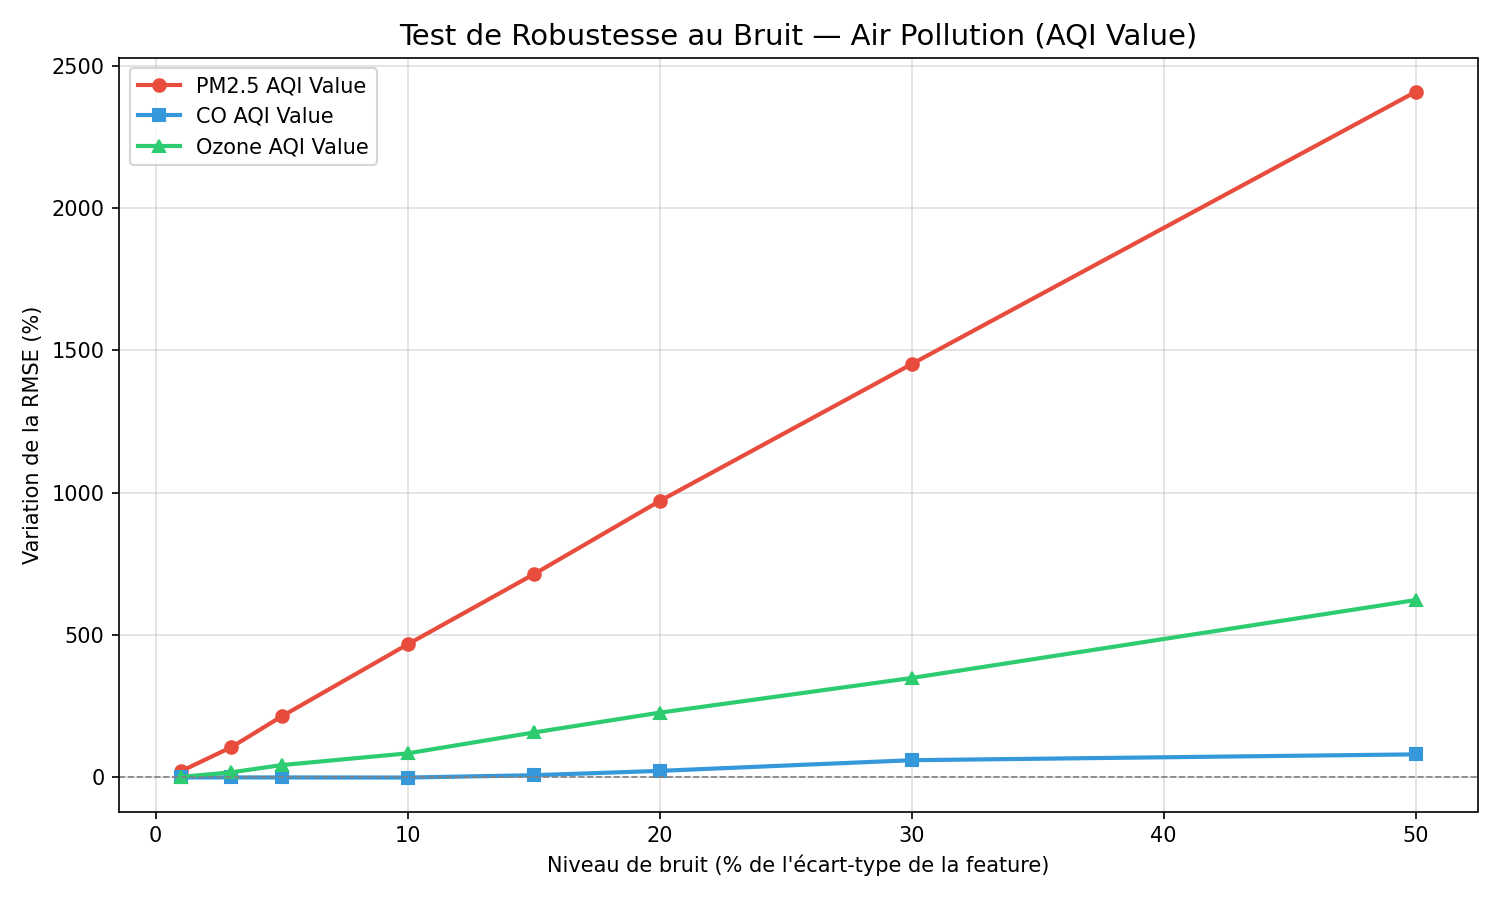
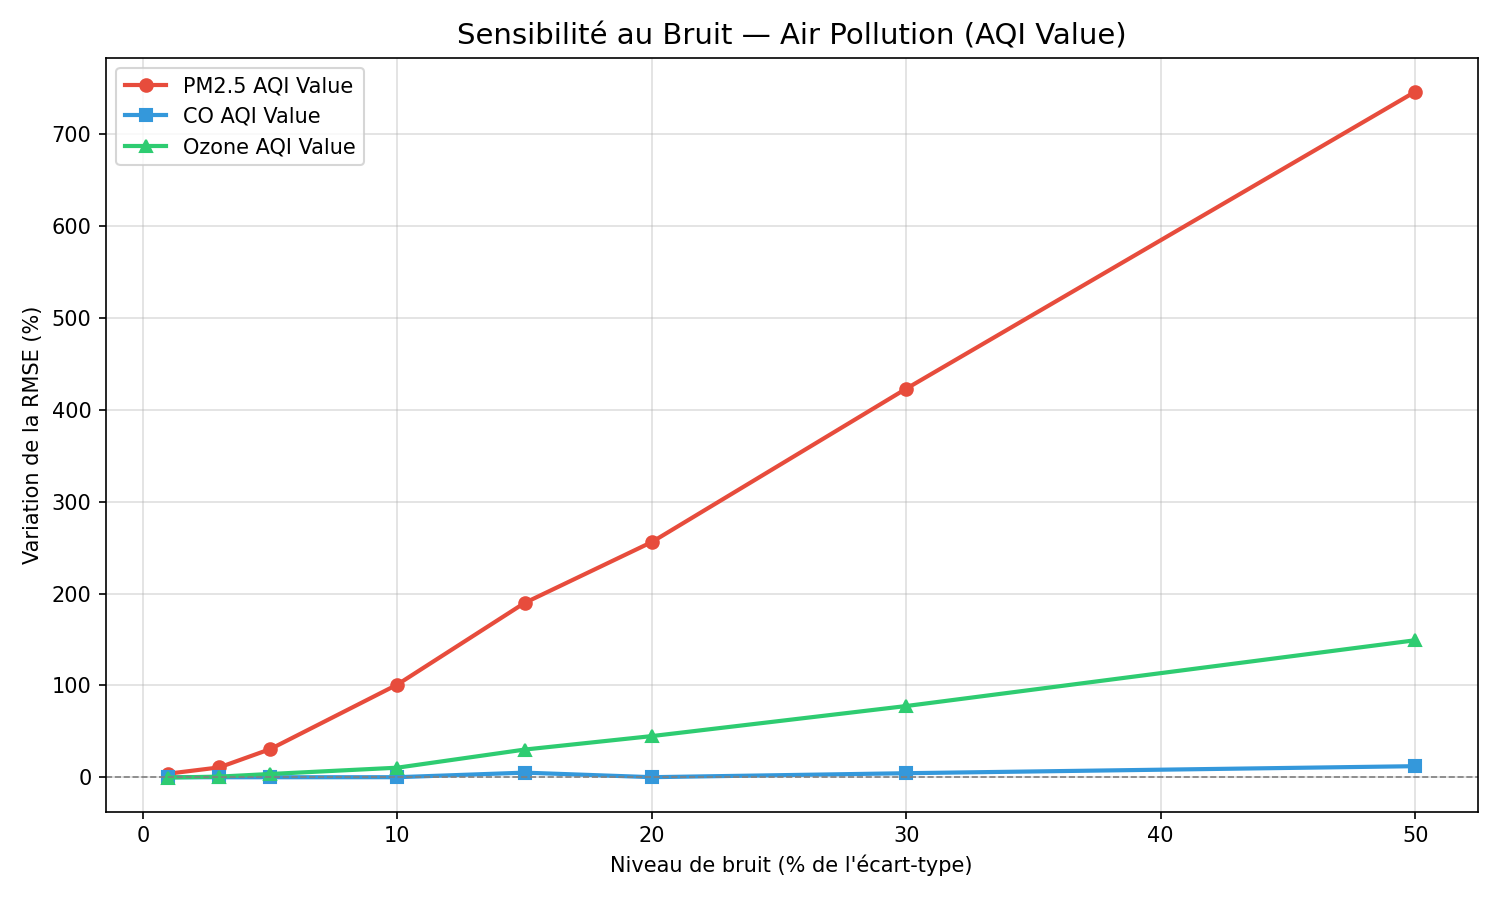
courbes

diff --git a/main.py b/main.py
@@ -1,0 +1,155 @@
+import pandas as pd
+import numpy as np
+import matplotlib.pyplot as plt
+import joblib
+from sklearn.ensemble import IsolationForest, RandomForestRegressor
+from sklearn.impute import SimpleImputer
+from sklearn.model_selection import train_test_split
+from sklearn.preprocessing import StandardScaler
+from sklearn.metrics import mean_squared_error
+
+# ─────────────────────────────────────────────────────────────────────────────
+# 1. Préparation des données
+# ─────────────────────────────────────────────────────────────────────────────
+df = pd.read_csv('global_air_pollution_dataset.csv')
+
+FEATURES = ["PM2.5 AQI Value", "CO AQI Value", "Ozone AQI Value", "NO2 AQI Value"]
+TARGET   = "AQI Value"
+
+X = df[FEATURES].copy()
+y = df[TARGET].values
+
+X_train, X_test, y_train, y_test = train_test_split(X, y, test_size=0.2, random_state=42)
+
+# ─────────────────────────────────────────────────────────────────────────────
+# 2. Imputation et Scaling (fit sur train uniquement)
+# ─────────────────────────────────────────────────────────────────────────────
+imputer = SimpleImputer(strategy='median')
+scaler  = StandardScaler()
+
+X_train_imputed = imputer.fit_transform(X_train)
+X_train_scaled  = scaler.fit_transform(X_train_imputed)
+
+X_test_imputed = imputer.transform(X_test)
+X_test_scaled  = scaler.transform(X_test_imputed)
+
+# ─────────────────────────────────────────────────────────────────────────────
+# 3. Entraînement du modèle et Isolation Forest
+# ─────────────────────────────────────────────────────────────────────────────
+model = RandomForestRegressor(n_estimators=100, random_state=42, n_jobs=-1)
+model.fit(X_train_scaled, y_train)
+
+iso_forest = IsolationForest(contamination=0.05, random_state=42)
+iso_forest.fit(X_train_scaled)
+
+# ─────────────────────────────────────────────────────────────────────────────
+# 4. Méthode du coude (RMSE vs Coverage)
+# ─────────────────────────────────────────────────────────────────────────────
+anomaly_scores = iso_forest.score_samples(X_test_scaled)
+y_pred         = model.predict(X_test_scaled)
+rmse_base      = np.sqrt(mean_squared_error(y_test, y_pred))
+print(f"RMSE baseline : {rmse_base:.4f}")
+
+thresholds = np.linspace(anomaly_scores.min(), anomaly_scores.max(), 100)
+count, rmse_list = [], []
+
+for t in thresholds:
+    mask = anomaly_scores >= t
+    count.append(100 * mask.sum() / len(y_test))
+    if mask.sum() > 0:
+        error = np.sqrt(mean_squared_error(y_test[mask], y_pred[mask]))
+        rmse_list.append(error)
+    else:
+        rmse_list.append(np.nan)
+
+fig, ax1 = plt.subplots(figsize=(10, 6))
+ax1.plot(thresholds, rmse_list, label='RMSE', color='blue')
+ax1.axvline(x=-0.5, color='green', linestyle='--', label='Seuil suggéré')
+ax1.set_ylabel('RMSE')
+ax1.set_xlabel('Seuil de score d\'anomalie')
+ax2 = ax1.twinx()
+ax2.plot(thresholds, count, label='Coverage %', color='red', linestyle='--')
+ax2.set_ylabel('Coverage (%)')
+ax1.set_title('Méthode du coude : RMSE vs Coverage — Air Pollution')
+ax1.legend(loc='upper left')
+ax2.legend(loc='upper right')
+plt.tight_layout()
+plt.savefig('anomaly_elbow_curve.png', dpi=150)
+plt.show()
+print("Courbe du coude sauvegardée : anomaly_elbow_curve.png")
+
+# ─────────────────────────────────────────────────────────────────────────────
+# 5. Courbes de sensibilité au bruit (3 features les plus corrélées)
+# ─────────────────────────────────────────────────────────────────────────────
+TOP3 = ["PM2.5 AQI Value", "CO AQI Value", "Ozone AQI Value"]
+noise_levels = np.array([1, 3, 5, 10, 15, 20, 30, 50])
+
+np.random.seed(42)
+plt.figure(figsize=(10, 6))
+markers = ["o-", "s-", "^-"]
+colors  = ["#e74c3c", "#3498db", "#2ecc71"]
+
+for feat, marker, color in zip(TOP3, markers, colors):
+    feat_idx = FEATURES.index(feat)
+    rmse_noise = []
+    for pct in noise_levels:
+        X_noisy = X_test_imputed.copy()
+        std_dev  = X_noisy[:, feat_idx].std()
+        noise    = np.random.normal(0, std_dev * pct / 100, size=X_noisy.shape[0])
+        X_noisy[:, feat_idx] += noise
+        X_noisy_scaled = scaler.transform(X_noisy)
+        preds = model.predict(X_noisy_scaled)
+        rmse  = np.sqrt(mean_squared_error(y_test, preds))
+        rmse_noise.append(100 * (rmse - rmse_base) / rmse_base)
+    plt.plot(noise_levels, rmse_noise, marker, label=feat, color=color, linewidth=2)
+
+plt.axhline(y=0, color='gray', linestyle='--', linewidth=0.8)
+plt.title('Sensibilité au Bruit — Air Pollution (AQI Value)', fontsize=14)
+plt.xlabel("Niveau de bruit (% de l'écart-type)")
+plt.ylabel('Variation de la RMSE (%)')
+plt.legend()
+plt.grid(True, alpha=0.4)
+plt.tight_layout()
+plt.savefig('noise_sensitivity_curve.png', dpi=150)
+plt.show()
+print("Courbe de bruit sauvegardée : noise_sensitivity_curve.png")
+
+# ─────────────────────────────────────────────────────────────────────────────
+# 6. Robustesse à l'imputation — pour chaque feature
+# ─────────────────────────────────────────────────────────────────────────────
+n_missing_range = range(10, 150, 20)
+
+for idx, col_name in enumerate(FEATURES):
+    rmse_per_feature = []
+    for n_missing in n_missing_range:
+        temp_rmse = []
+        for _ in range(5):  # Moyenne sur 5 tirages
+            X_corrupted = X_test.copy()
+            indices = np.random.choice(len(X_corrupted), n_missing, replace=False)
+            X_corrupted.iloc[indices, idx] = np.nan
+
+            X_imp = imputer.transform(X_corrupted)
+            X_sc  = scaler.transform(X_imp)
+            preds = model.predict(X_sc)
+            temp_rmse.append(np.sqrt(mean_squared_error(y_test, preds)))
+        rmse_per_feature.append(np.mean(temp_rmse))
+
+    plt.figure()
+    plt.plot(n_missing_range, rmse_per_feature, marker='o', color='purple')
+    plt.title(f'Robustesse Imputation : {col_name}')
+    plt.xlabel('Nombre de valeurs manquantes')
+    plt.ylabel('RMSE')
+    plt.grid(True)
+    plt.tight_layout()
+    plt.savefig(f'imputation_{col_name.replace(" ", "_")}.png', dpi=150)
+    plt.show()
+    print(f"Courbe imputation sauvegardée : imputation_{col_name.replace(' ', '_')}.png")
+
+# ─────────────────────────────────────────────────────────────────────────────
+# 7. Sauvegarde des artefacts
+# ─────────────────────────────────────────────────────────────────────────────
+joblib.dump(model,      'model.joblib')
+joblib.dump(iso_forest, 'isolation_forest.joblib')
+joblib.dump(scaler,     'scaler.joblib')
+joblib.dump(imputer,    'imputer.joblib')
+print("\nModèles et outils sauvegardés !")